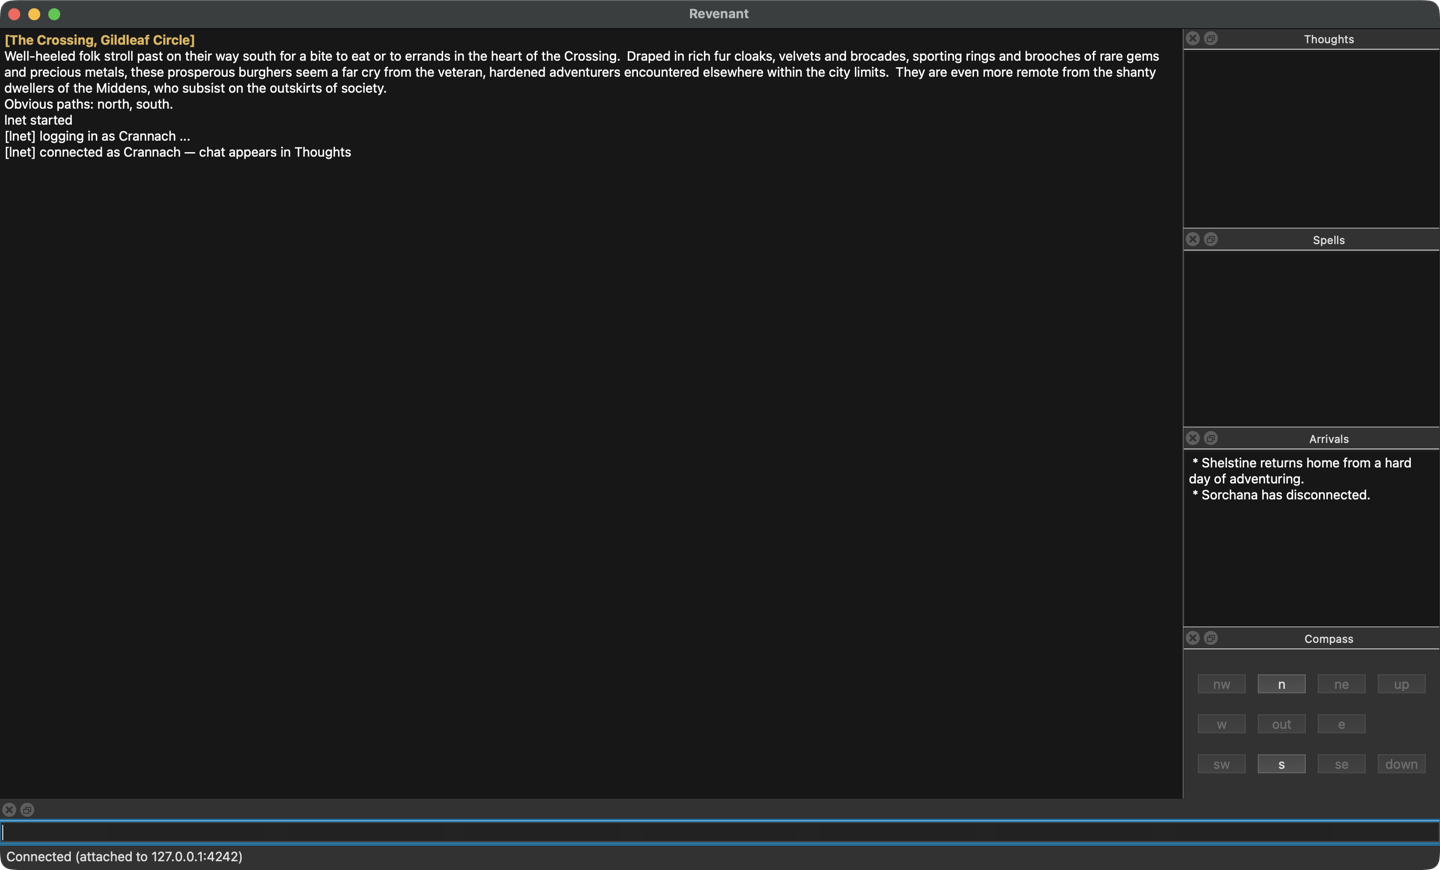
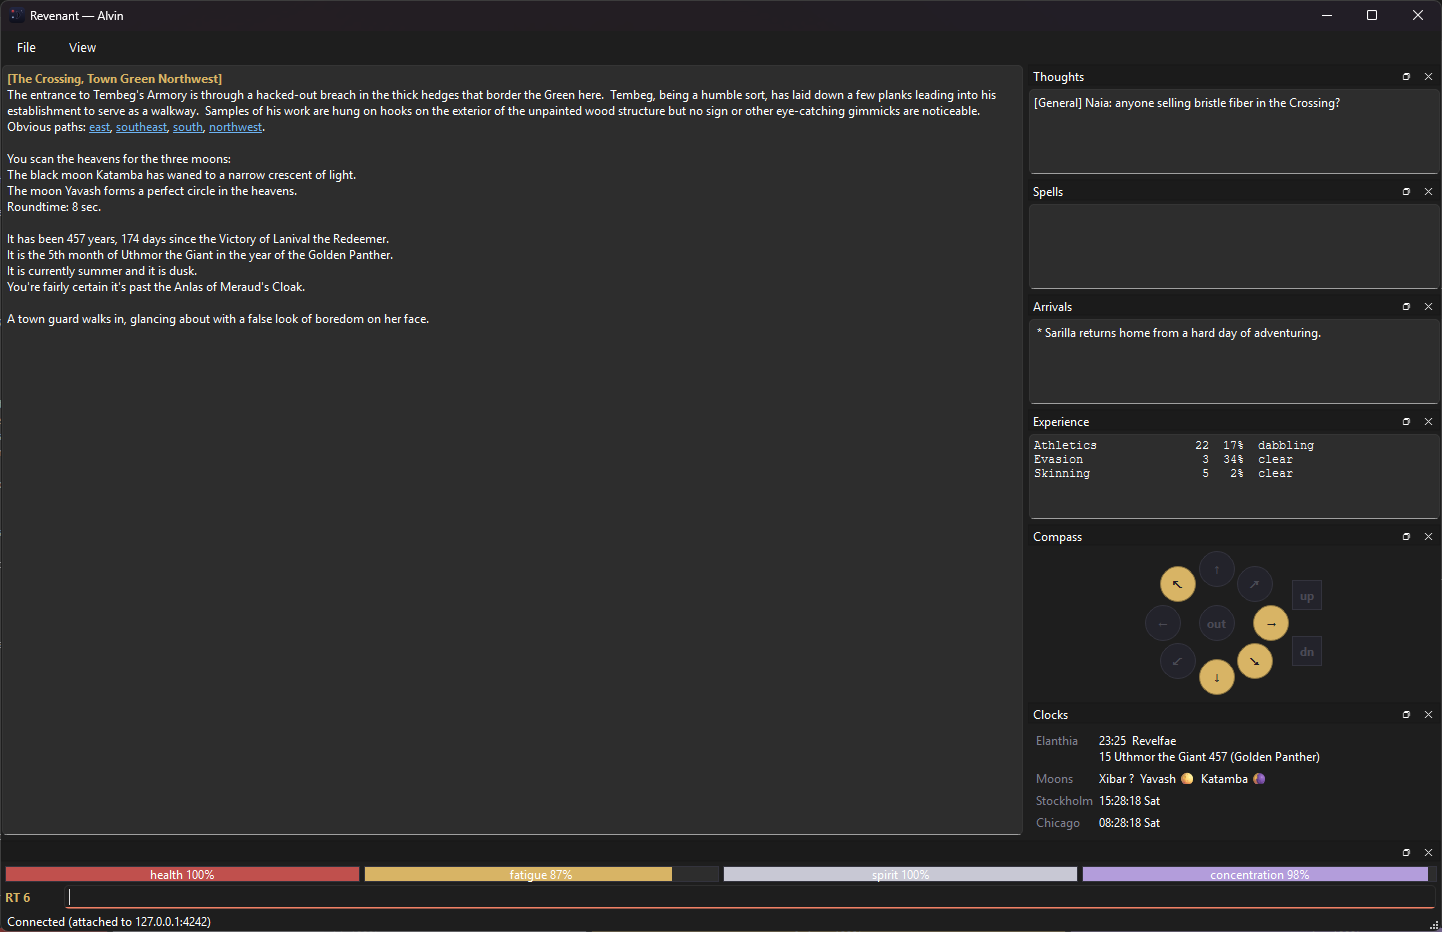
docs: refresh the GUI screenshot with the new dock lineup
The Windows build showing what shipped today: character name in the
title bar, vitals bars and the roundtime counter framing the input
line, the clocks dock (Elanthian date, anlas, moon phases, Stockholm
and Chicago), the lit compass, and the Experience dock. A curated
capture — the GUI rendering captured game traffic, synthetic
bystanders.

diff --git a/README.md b/README.md
@@ -35,7 +35,7 @@ Python 3.10+ is required. (The old `telnetlib` dependency — removed from the s
 ### client
 A rough-draft engine + frontends for playing DragonRealms with Python in the loop.
 
-![The PyQt6 frontend live in DragonRealms: stream docks on the right route arrivals and thoughts, the compass lights up with the room's exits](docs/screenshot.png)
+![The PyQt6 frontend in DragonRealms: the title bar names the character, vitals bars and the roundtime counter frame the input line, stream docks route thoughts and arrivals, the compass lights up with the room's exits, and the clocks dock keeps Elanthian time and the moons beside Stockholm and Chicago](docs/screenshot.png)
 
 - **core** — the engine/middleman between the game and whichever frontend is attached. See [client/client/core.py](client/client/core.py).
 - **session** — a detachable session daemon that logs in, owns the game socket, and serves parsed game text to any number of frontends over localhost, lich-style. Also hosts the Python script engine (`;list`, `;run`, `;stop`) — writing your own script is a docstring and a `main(s)` in `scripts/`; see [docs/scripting.md](docs/scripting.md). See [client/client/session.py](client/client/session.py).
